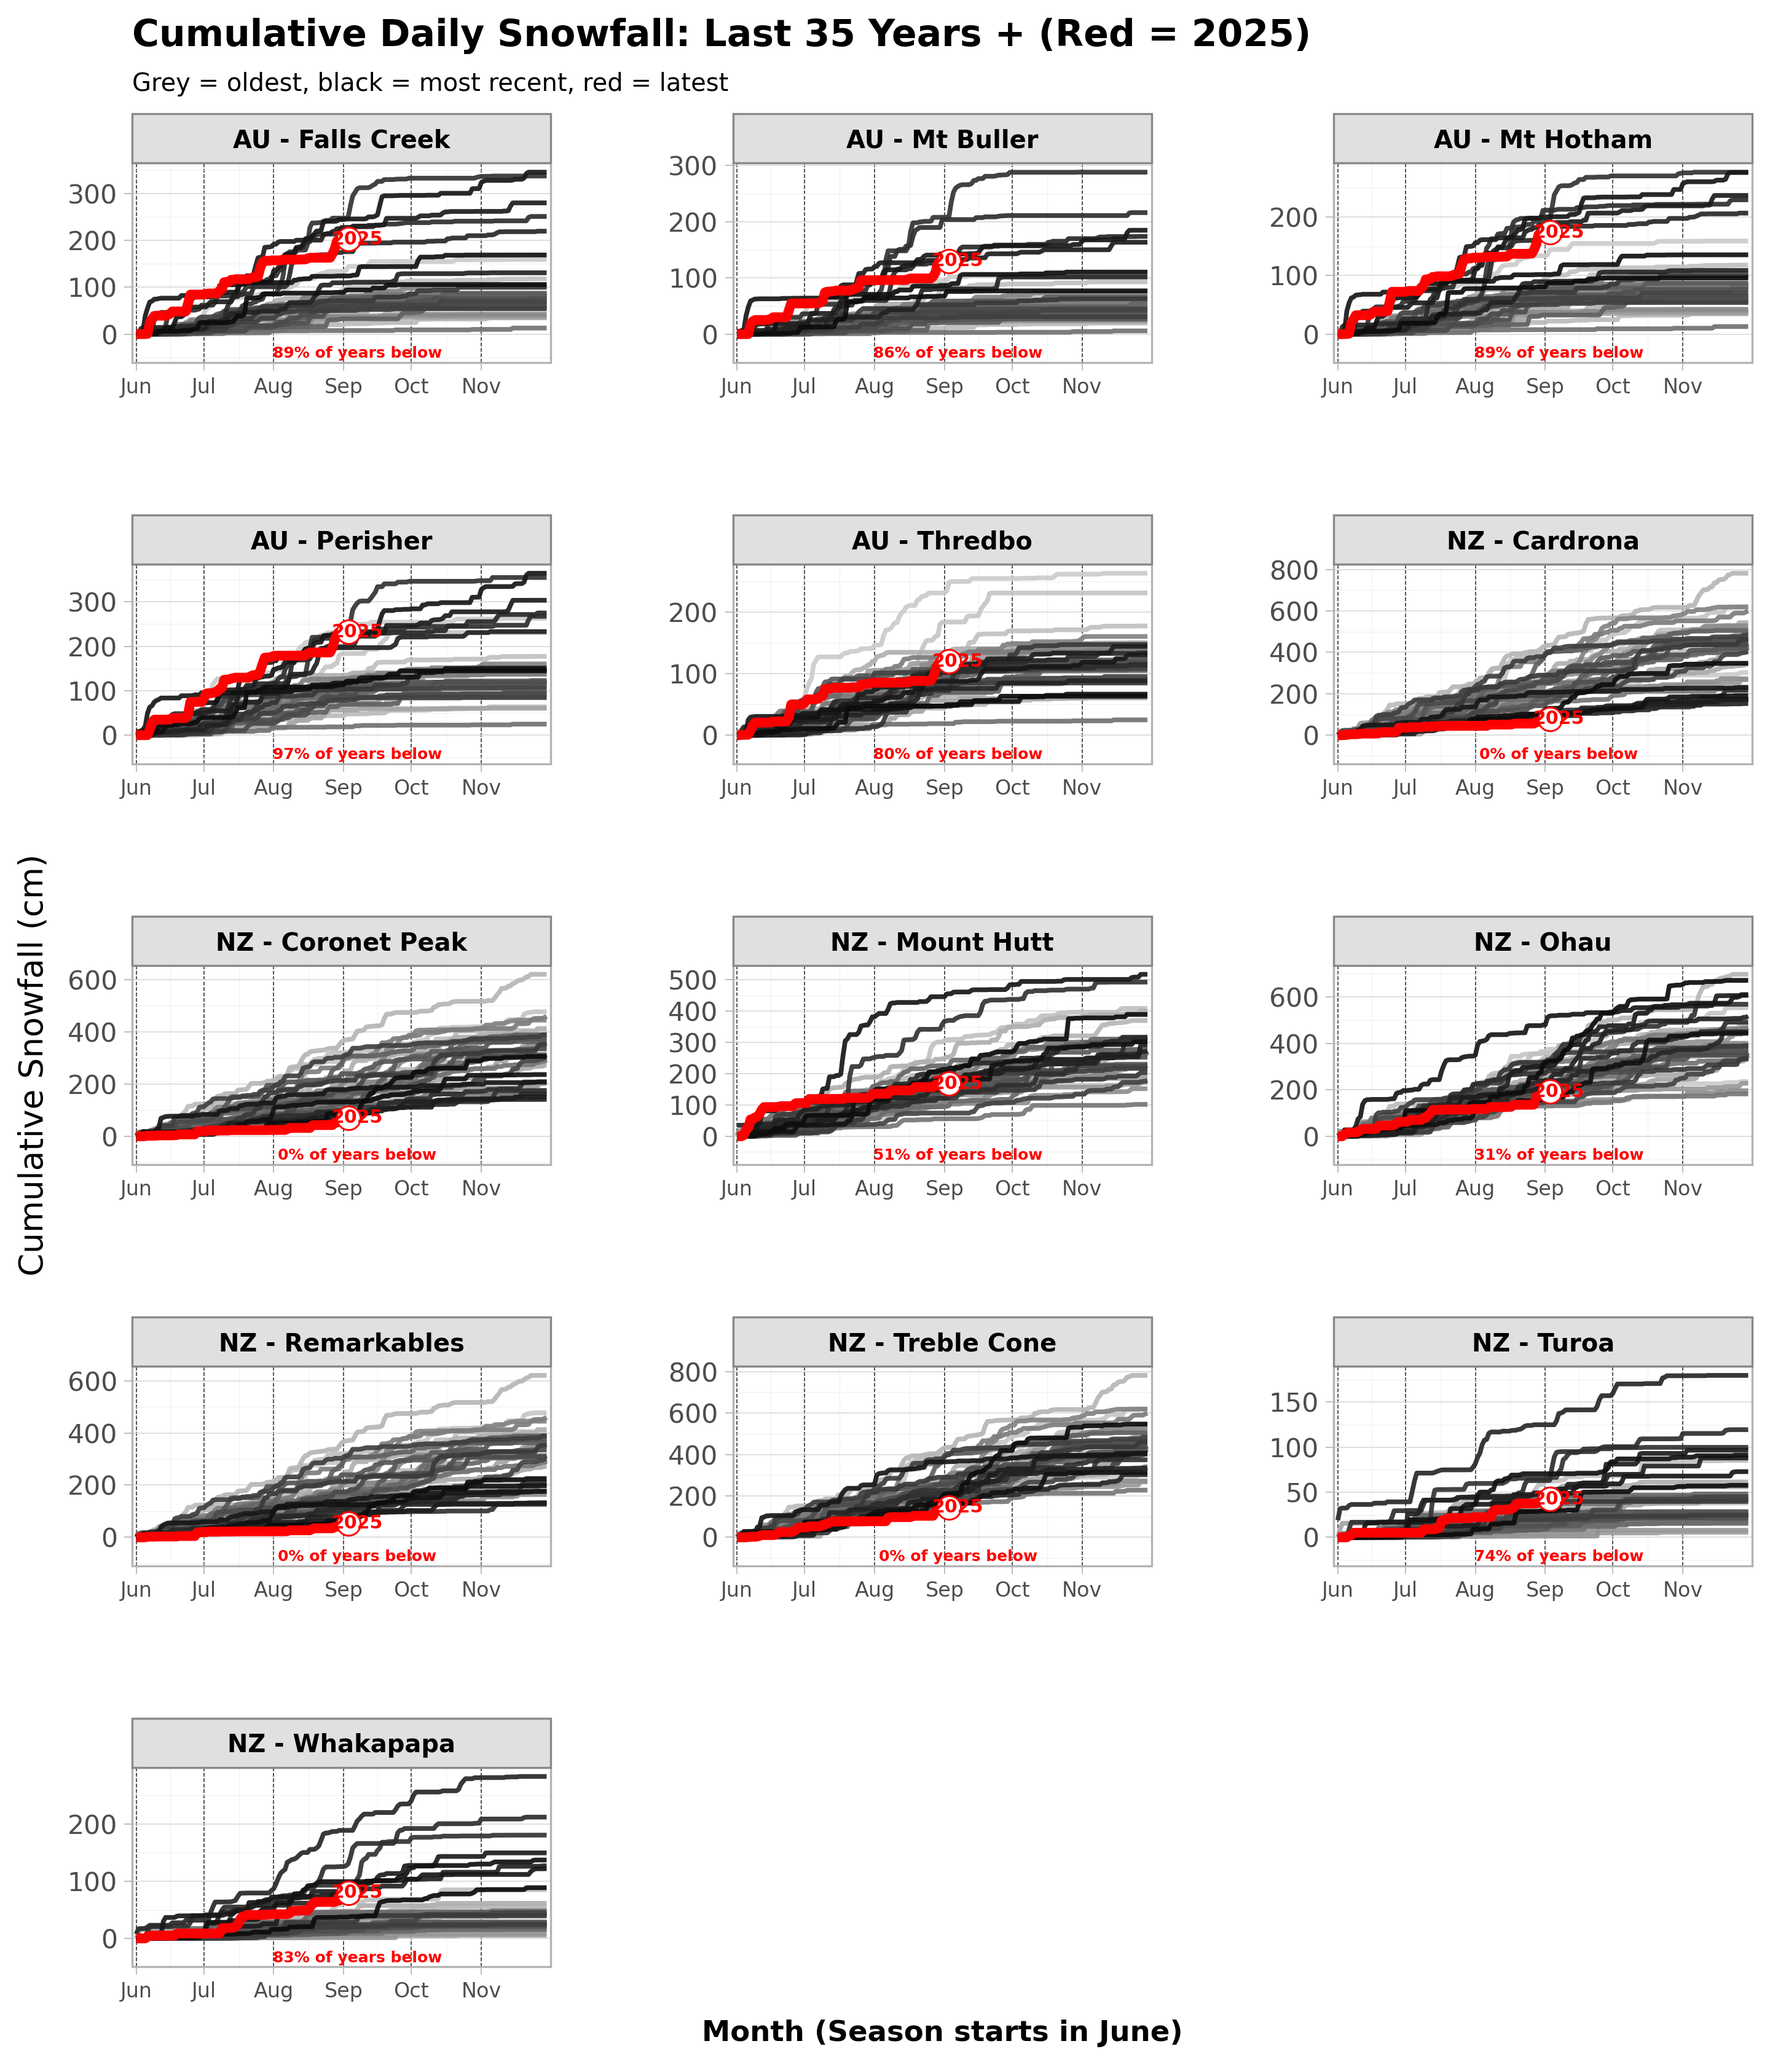
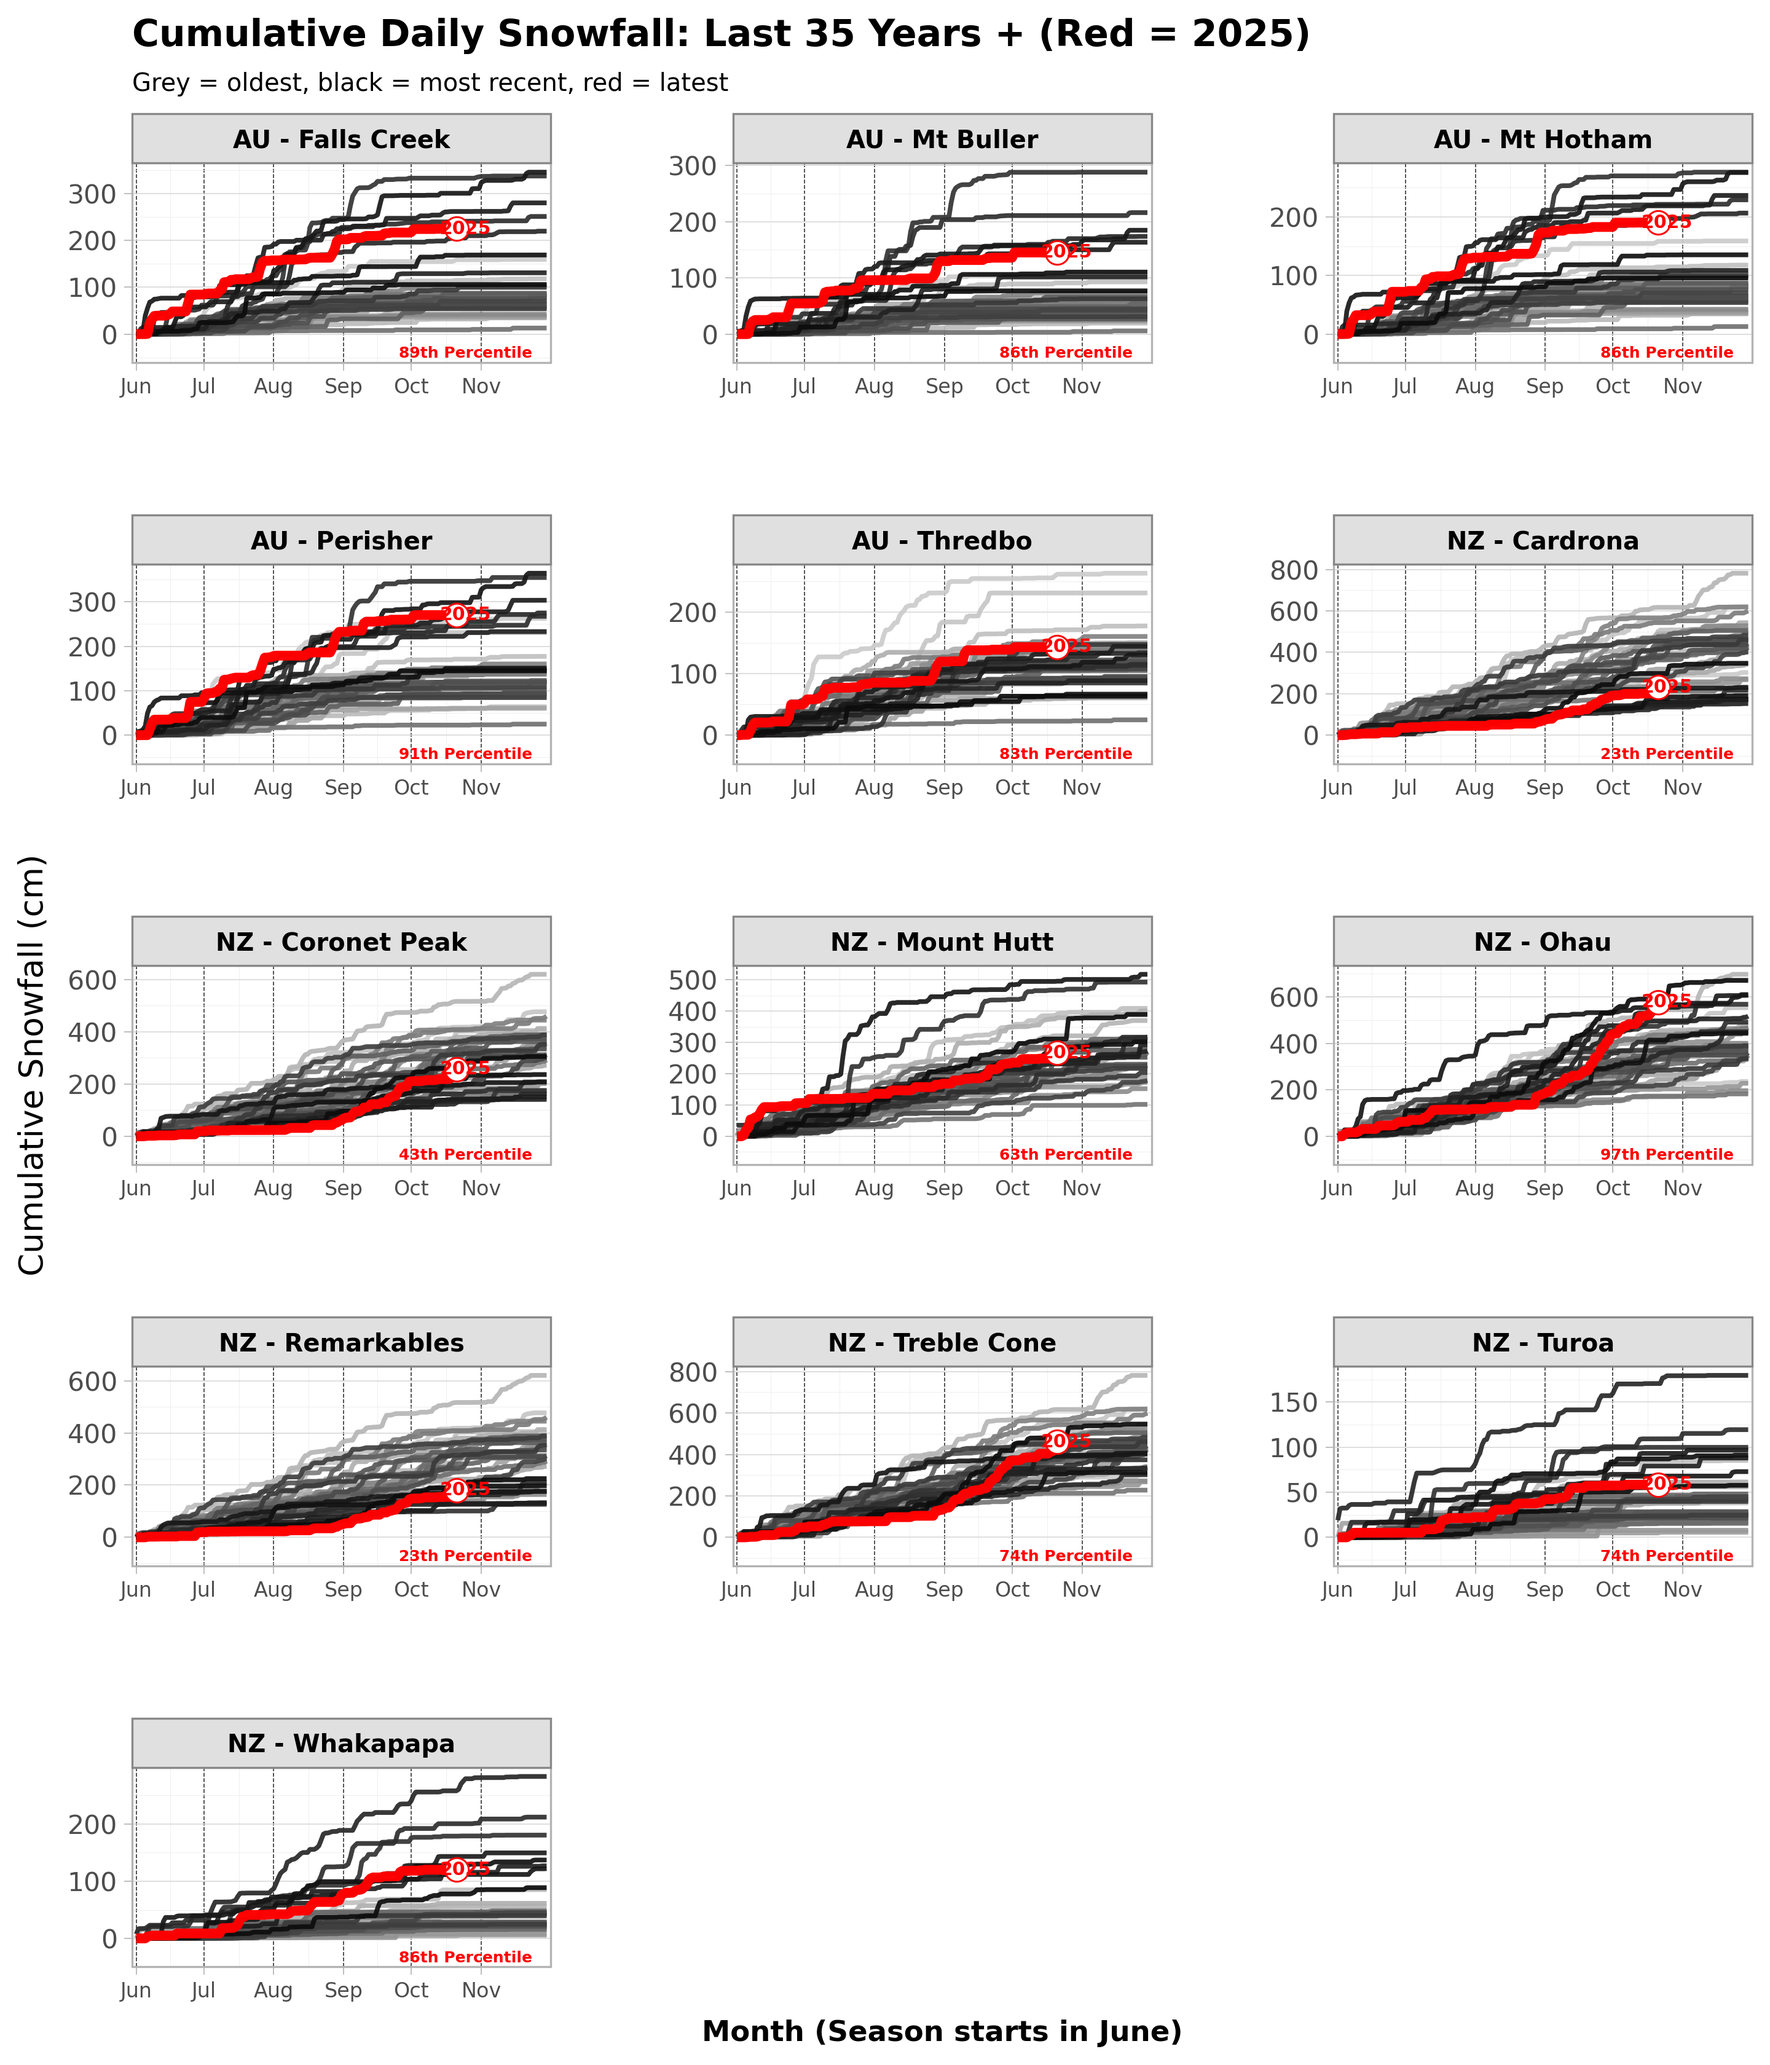
running pipelines again

diff --git a/scripts/Cumulative_snow.py b/scripts/Cumulative_snow.py
@@ -130,7 +130,7 @@ for facet in df['facet_label'].unique():
         'facet_label': facet,
         'day_of_season': x_beyond,
         'cumulative_snowfall_cm': y_below,
-        'percent_label': f"{pct:.0f}% of years below"
+        'percent_label': f"{pct:.0f}th Percentile"
     })
 
 df_percent = pd.DataFrame(percentile_labels)
